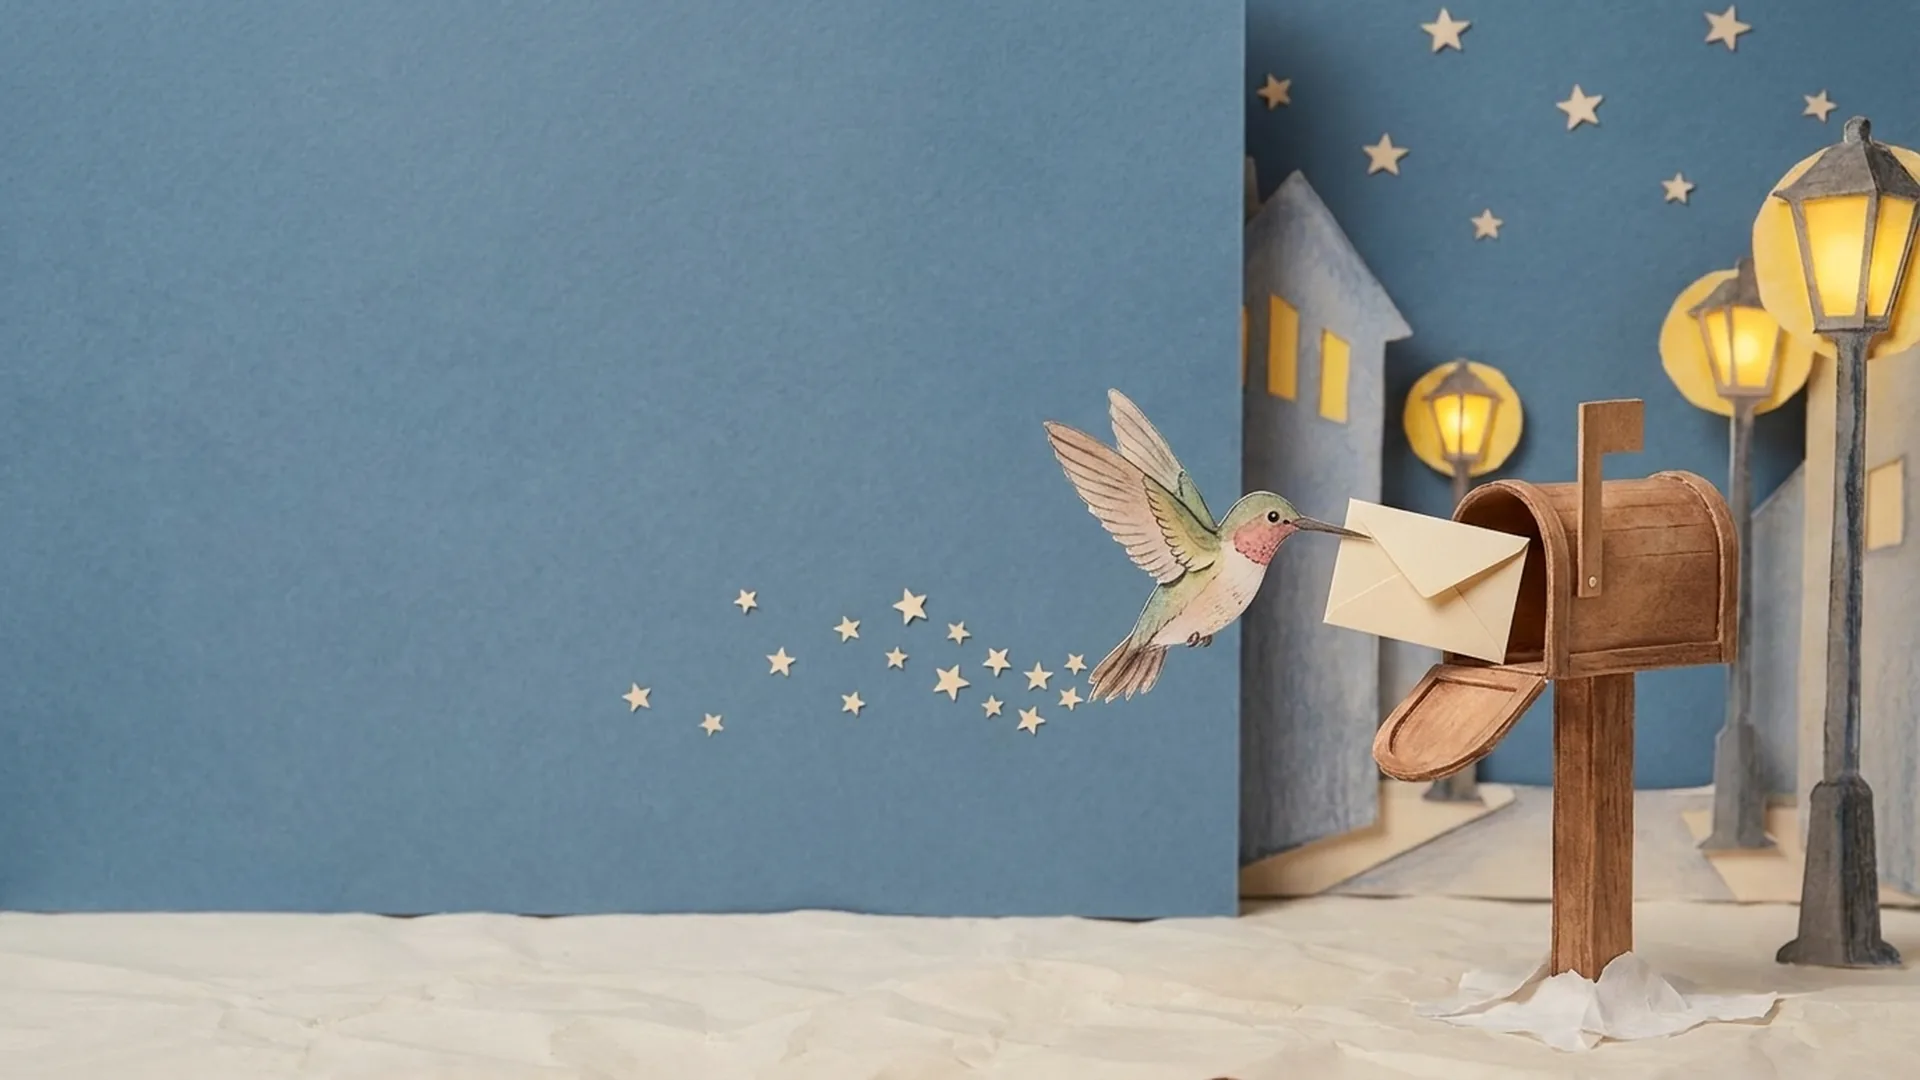
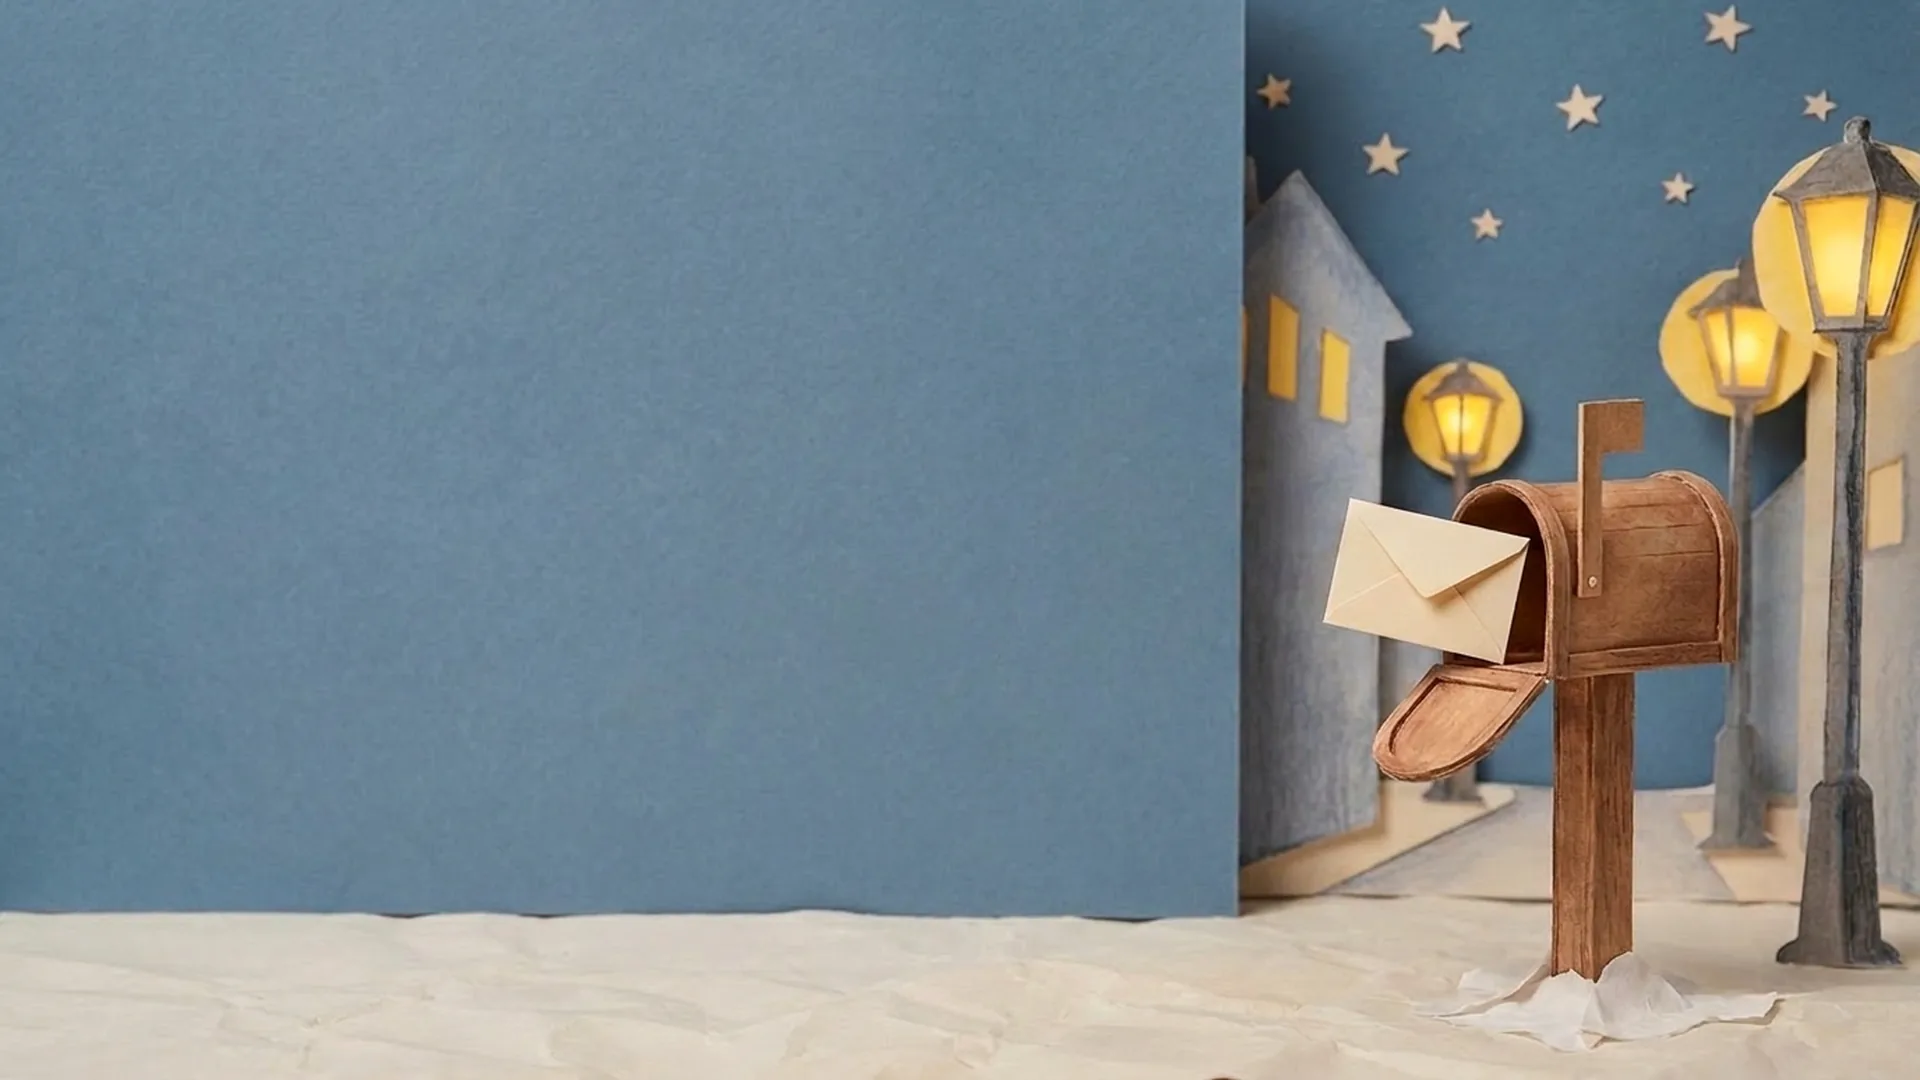
Mailing list scene: use the site's paper hummingbird instead of the generated one
The generated bird and its star trail were removed from the plate (Meshy
image-to-image edit); Jack's A1 paper bird is layered at the letter on
desktop and phone, and drifts in as the scene settles.

Claude-Session: https://claude.ai/code/session_01RtvS5V4MTS71N2RPp1urB8

diff --git a/index.html b/index.html
@@ -95,6 +95,7 @@
     <section class="scene" id="s-list" data-origin="70% 60%" aria-label="Mailing list">
       <div class="cam"><div class="plate">
         <img class="bg" src="assets/venue/desktop/A6-bg.webp" alt="A paper hummingbird posting a letter into a mailbox on a snowy night street" loading="lazy" width="1920" height="1080">
+        <img class="layer fg" data-l="A6-fg" src="assets/venue/desktop/A1-fg.webp" alt="">
       </div></div>
       <div class="signup rv"><form class="mc" data-mc novalidate><h2 class="h1">Stay in the loop</h2><p class="mc-lede">New songs, videos and show dates, now and then. No spam.</p><div class="mc-row"><label class="sr" for="mc-email-d">Email</label><input id="mc-email-d" type="email" name="EMAIL" placeholder="you@email.com" autocomplete="email" required><button type="submit">Sign me up</button></div><p class="mc-msg" role="status" aria-live="polite"></p></form></div>
       <div class="foot"><div class="socials"><a href="https://open.spotify.com/artist/2lmk0RtmkwgqdylSRGUCuy" target="_blank" rel="noopener" aria-label="Spotify"><svg viewBox="0 0 24 24" width="16" height="16" aria-hidden="true"><path d="M12 0C5.4 0 0 5.4 0 12s5.4 12 12 12 12-5.4 12-12S18.66 0 12 0zm5.521 17.34c-.24.359-.66.48-1.021.24-2.82-1.74-6.36-2.101-10.561-1.141-.418.122-.779-.179-.899-.539-.12-.421.18-.78.54-.9 4.56-1.021 8.52-.6 11.64 1.32.42.18.479.659.301 1.02zm1.44-3.3c-.301.42-.841.6-1.262.3-3.239-1.98-8.159-2.58-11.939-1.38-.479.12-1.02-.12-1.14-.6-.12-.48.12-1.021.6-1.141C9.6 9.9 15 10.561 18.72 12.84c.361.181.54.78.241 1.2zm.12-3.36C15.24 8.4 8.82 8.16 5.16 9.301c-.6.179-1.2-.181-1.38-.721-.18-.601.18-1.2.72-1.381 4.26-1.26 11.28-1.02 15.721 1.621.539.3.719 1.02.419 1.56-.299.421-1.02.599-1.559.3z"/></svg></a><a href="https://music.apple.com/il/artist/knaan-shabtay/950357713" target="_blank" rel="noopener" aria-label="Apple Music"><svg viewBox="0 0 24 24" width="16" height="16" aria-hidden="true"><path d="M23.994 6.124a9.23 9.23 0 00-.24-2.19c-.317-1.31-1.062-2.31-2.18-3.043a5.022 5.022 0 00-1.877-.726 10.496 10.496 0 00-1.564-.15c-.04-.003-.083-.01-.124-.013H5.986c-.152.01-.303.017-.455.026-.747.043-1.49.123-2.193.4-1.336.53-2.3 1.452-2.865 2.78-.192.448-.292.925-.363 1.408-.056.392-.088.785-.1 1.18 0 .032-.007.062-.01.093v12.223c.01.14.017.283.027.424.05.815.154 1.624.497 2.373.65 1.42 1.738 2.353 3.234 2.801.42.127.856.187 1.293.228.555.053 1.11.06 1.667.06h11.03a12.5 12.5 0 001.57-.1c.822-.106 1.596-.35 2.295-.81a5.046 5.046 0 001.88-2.207c.186-.42.293-.87.37-1.324.113-.675.138-1.358.137-2.04-.002-3.8 0-7.595-.003-11.393zm-6.423 3.99v5.712c0 .417-.058.827-.244 1.206-.29.59-.76.962-1.388 1.14-.35.1-.706.157-1.07.173-.95.045-1.773-.6-1.943-1.536a1.88 1.88 0 011.038-2.022c.323-.16.67-.25 1.018-.324.378-.082.758-.153 1.134-.24.274-.063.457-.23.51-.516a.904.904 0 00.02-.193c0-1.815 0-3.63-.002-5.443a.725.725 0 00-.026-.185c-.04-.15-.15-.243-.304-.234-.16.01-.318.035-.475.066-.76.15-1.52.303-2.28.456l-2.325.47-1.374.278c-.016.003-.032.01-.048.013-.277.077-.377.203-.39.49-.002.042 0 .086 0 .13-.002 2.602 0 5.204-.003 7.805 0 .42-.047.836-.215 1.227-.278.64-.77 1.04-1.434 1.233-.35.1-.71.16-1.075.172-.96.036-1.755-.6-1.92-1.544-.14-.812.23-1.685 1.154-2.075.357-.15.73-.232 1.108-.31.287-.06.575-.116.86-.177.383-.083.583-.323.6-.714v-.15c0-2.96 0-5.922.002-8.882 0-.123.013-.25.042-.37.07-.285.273-.448.546-.518.255-.066.515-.112.774-.165.733-.15 1.466-.296 2.2-.444l2.27-.46c.67-.134 1.34-.27 2.01-.403.22-.043.442-.088.663-.106.31-.025.523.17.554.482.008.073.012.148.012.223.002 1.91.002 3.822 0 5.732z"/></svg></a><a href="https://www.youtube.com/@KnaanShabtay" target="_blank" rel="noopener" aria-label="YouTube"><svg viewBox="0 0 24 24" width="16" height="16" aria-hidden="true"><path d="M23.498 6.186a3.016 3.016 0 0 0-2.122-2.136C19.505 3.545 12 3.545 12 3.545s-7.505 0-9.377.505A3.017 3.017 0 0 0 .502 6.186C0 8.07 0 12 0 12s0 3.93.502 5.814a3.016 3.016 0 0 0 2.122 2.136c1.871.505 9.376.505 9.376.505s7.505 0 9.377-.505a3.015 3.015 0 0 0 2.122-2.136C24 15.93 24 12 24 12s0-3.93-.502-5.814zM9.545 15.568V8.432L15.818 12l-6.273 3.568z"/></svg></a><a href="https://www.instagram.com/knaanshabtay/" target="_blank" rel="noopener" aria-label="Instagram"><svg viewBox="0 0 24 24" width="16" height="16" aria-hidden="true"><path d="M7.0301.084c-1.2768.0602-2.1487.264-2.911.5634-.7888.3075-1.4575.72-2.1228 1.3877-.6652.6677-1.075 1.3368-1.3802 2.127-.2954.7638-.4956 1.6365-.552 2.914-.0564 1.2775-.0689 1.6882-.0626 4.947.0062 3.2586.0206 3.6671.0825 4.9473.061 1.2765.264 2.1482.5635 2.9107.308.7889.72 1.4573 1.388 2.1228.6679.6655 1.3365 1.0743 2.1285 1.38.7632.295 1.6361.4961 2.9134.552 1.2773.056 1.6884.069 4.9462.0627 3.2578-.0062 3.668-.0207 4.9478-.0814 1.28-.0607 2.147-.2652 2.9098-.5633.7889-.3086 1.4578-.72 2.1228-1.3881.665-.6682 1.0745-1.3378 1.3795-2.1284.2957-.7632.4966-1.636.552-2.9124.056-1.2809.0692-1.6898.063-4.948-.0063-3.2583-.021-3.6668-.0817-4.9465-.0607-1.2797-.264-2.1487-.5633-2.9117-.3084-.7889-.72-1.4568-1.3876-2.1228C21.2982 1.33 20.628.9208 19.8378.6165 19.074.321 18.2017.1197 16.9244.0645 15.6471.0093 15.236-.005 11.977.0014 8.718.0076 8.31.0215 7.0301.0839m.1402 21.6932c-1.17-.0509-1.8053-.2453-2.2287-.408-.5606-.216-.96-.4771-1.3819-.895-.422-.4178-.6811-.8186-.9-1.378-.1644-.4234-.3624-1.058-.4171-2.228-.0595-1.2645-.072-1.6442-.079-4.848-.007-3.2037.0053-3.583.0607-4.848.05-1.169.2456-1.805.408-2.2282.216-.5613.4762-.96.895-1.3816.4188-.4217.8184-.6814 1.3783-.9003.423-.1651 1.0575-.3614 2.227-.4171 1.2655-.06 1.6447-.072 4.848-.079 3.2033-.007 3.5835.005 4.8495.0608 1.169.0508 1.8053.2445 2.228.408.5608.216.96.4754 1.3816.895.4217.4194.6816.8176.9005 1.3787.1653.4217.3617 1.056.4169 2.2263.0602 1.2655.0739 1.645.0796 4.848.0058 3.203-.0055 3.5834-.061 4.848-.051 1.17-.245 1.8055-.408 2.2294-.216.5604-.4763.96-.8954 1.3814-.419.4215-.8181.6811-1.3783.9-.4224.1649-1.0577.3617-2.2262.4174-1.2656.0595-1.6448.072-4.8493.079-3.2045.007-3.5825-.006-4.848-.0608M16.953 5.5864A1.44 1.44 0 1 0 18.39 4.144a1.44 1.44 0 0 0-1.437 1.4424M5.8385 12.012c.0067 3.4032 2.7706 6.1557 6.173 6.1493 3.4026-.0065 6.157-2.7701 6.1506-6.1733-.0065-3.4032-2.771-6.1565-6.174-6.1498-3.403.0067-6.156 2.771-6.1496 6.1738M8 12.0077a4 4 0 1 1 4.008 3.9921A3.9996 3.9996 0 0 1 8 12.0077"/></svg></a><a href="https://www.tiktok.com/@knaanshabtay" target="_blank" rel="noopener" aria-label="TikTok"><svg viewBox="0 0 24 24" width="16" height="16" aria-hidden="true"><path d="M12.525.02c1.31-.02 2.61-.01 3.91-.02.08 1.53.63 3.09 1.75 4.17 1.12 1.11 2.7 1.62 4.24 1.79v4.03c-1.44-.05-2.89-.35-4.2-.97-.57-.26-1.1-.59-1.62-.93-.01 2.92.01 5.84-.02 8.75-.08 1.4-.54 2.79-1.35 3.94-1.31 1.92-3.58 3.17-5.91 3.21-1.43.08-2.86-.31-4.08-1.03-2.02-1.19-3.44-3.37-3.65-5.71-.02-.5-.03-1-.01-1.49.18-1.9 1.12-3.72 2.58-4.96 1.66-1.44 3.98-2.13 6.15-1.72.02 1.48-.04 2.96-.04 4.44-.99-.32-2.15-.23-3.02.37-.63.41-1.11 1.04-1.36 1.75-.21.51-.15 1.07-.14 1.61.24 1.64 1.82 3.02 3.5 2.87 1.12-.01 2.19-.66 2.77-1.61.19-.33.4-.67.41-1.06.1-1.79.06-3.57.07-5.36.01-4.03-.01-8.05.02-12.07z"/></svg></a><a href="https://www.facebook.com/knaanshabtaymusic" target="_blank" rel="noopener" aria-label="Facebook"><svg viewBox="0 0 24 24" width="16" height="16" aria-hidden="true"><path d="M9.101 23.691v-7.98H6.627v-3.667h2.474v-1.58c0-4.085 1.848-5.978 5.858-5.978.401 0 .955.042 1.468.103a8.68 8.68 0 0 1 1.141.195v3.325a8.623 8.623 0 0 0-.653-.036 26.805 26.805 0 0 0-.733-.009c-.707 0-1.259.096-1.675.309a1.686 1.686 0 0 0-.679.622c-.258.42-.374.995-.374 1.752v1.297h3.919l-.386 2.103-.287 1.564h-3.246v8.245C19.396 23.238 24 18.179 24 12.044c0-6.627-5.373-12-12-12s-12 5.373-12 12c0 5.628 3.874 10.35 9.101 11.647Z"/></svg></a></div><p class="copy">© 2026 Knaan Shabtay. All rights reserved.</p></div>
@@ -127,7 +128,7 @@
       <a class="btn" href="mailto:knaanshabtaymusic@gmail.com">Send email →</a></div>
   </section>
   <section class="mob msec" id="list" aria-label="Mailing list">
-    <div class="mart"><img src="assets/venue/mobile/m-A6-plate.webp" alt="A paper hummingbird posting a letter into a mailbox on a snowy night street" loading="lazy" width="780" height="725"></div>
+    <div class="mart"><img src="assets/venue/mobile/m-A6-plate.webp" alt="A paper hummingbird posting a letter into a mailbox on a snowy night street" loading="lazy" width="780" height="725"><img class="mfg" data-l="m-A6-fg" src="assets/venue/mobile/m-A1-fg.webp" alt=""></div>
     <div class="mcon reveal"><form class="mc" data-mc novalidate><h2 class="h1">Stay in the loop</h2><p class="mc-lede">New songs, videos and show dates, now and then. No spam.</p><div class="mc-row"><label class="sr" for="mc-email-m">Email</label><input id="mc-email-m" type="email" name="EMAIL" placeholder="you@email.com" autocomplete="email" required><button type="submit">Sign me up</button></div><p class="mc-msg" role="status" aria-live="polite"></p></form><div class="socials mfoot"><a href="https://open.spotify.com/artist/2lmk0RtmkwgqdylSRGUCuy" target="_blank" rel="noopener" aria-label="Spotify"><svg viewBox="0 0 24 24" width="16" height="16" aria-hidden="true"><path d="M12 0C5.4 0 0 5.4 0 12s5.4 12 12 12 12-5.4 12-12S18.66 0 12 0zm5.521 17.34c-.24.359-.66.48-1.021.24-2.82-1.74-6.36-2.101-10.561-1.141-.418.122-.779-.179-.899-.539-.12-.421.18-.78.54-.9 4.56-1.021 8.52-.6 11.64 1.32.42.18.479.659.301 1.02zm1.44-3.3c-.301.42-.841.6-1.262.3-3.239-1.98-8.159-2.58-11.939-1.38-.479.12-1.02-.12-1.14-.6-.12-.48.12-1.021.6-1.141C9.6 9.9 15 10.561 18.72 12.84c.361.181.54.78.241 1.2zm.12-3.36C15.24 8.4 8.82 8.16 5.16 9.301c-.6.179-1.2-.181-1.38-.721-.18-.601.18-1.2.72-1.381 4.26-1.26 11.28-1.02 15.721 1.621.539.3.719 1.02.419 1.56-.299.421-1.02.599-1.559.3z"/></svg></a><a href="https://music.apple.com/il/artist/knaan-shabtay/950357713" target="_blank" rel="noopener" aria-label="Apple Music"><svg viewBox="0 0 24 24" width="16" height="16" aria-hidden="true"><path d="M23.994 6.124a9.23 9.23 0 00-.24-2.19c-.317-1.31-1.062-2.31-2.18-3.043a5.022 5.022 0 00-1.877-.726 10.496 10.496 0 00-1.564-.15c-.04-.003-.083-.01-.124-.013H5.986c-.152.01-.303.017-.455.026-.747.043-1.49.123-2.193.4-1.336.53-2.3 1.452-2.865 2.78-.192.448-.292.925-.363 1.408-.056.392-.088.785-.1 1.18 0 .032-.007.062-.01.093v12.223c.01.14.017.283.027.424.05.815.154 1.624.497 2.373.65 1.42 1.738 2.353 3.234 2.801.42.127.856.187 1.293.228.555.053 1.11.06 1.667.06h11.03a12.5 12.5 0 001.57-.1c.822-.106 1.596-.35 2.295-.81a5.046 5.046 0 001.88-2.207c.186-.42.293-.87.37-1.324.113-.675.138-1.358.137-2.04-.002-3.8 0-7.595-.003-11.393zm-6.423 3.99v5.712c0 .417-.058.827-.244 1.206-.29.59-.76.962-1.388 1.14-.35.1-.706.157-1.07.173-.95.045-1.773-.6-1.943-1.536a1.88 1.88 0 011.038-2.022c.323-.16.67-.25 1.018-.324.378-.082.758-.153 1.134-.24.274-.063.457-.23.51-.516a.904.904 0 00.02-.193c0-1.815 0-3.63-.002-5.443a.725.725 0 00-.026-.185c-.04-.15-.15-.243-.304-.234-.16.01-.318.035-.475.066-.76.15-1.52.303-2.28.456l-2.325.47-1.374.278c-.016.003-.032.01-.048.013-.277.077-.377.203-.39.49-.002.042 0 .086 0 .13-.002 2.602 0 5.204-.003 7.805 0 .42-.047.836-.215 1.227-.278.64-.77 1.04-1.434 1.233-.35.1-.71.16-1.075.172-.96.036-1.755-.6-1.92-1.544-.14-.812.23-1.685 1.154-2.075.357-.15.73-.232 1.108-.31.287-.06.575-.116.86-.177.383-.083.583-.323.6-.714v-.15c0-2.96 0-5.922.002-8.882 0-.123.013-.25.042-.37.07-.285.273-.448.546-.518.255-.066.515-.112.774-.165.733-.15 1.466-.296 2.2-.444l2.27-.46c.67-.134 1.34-.27 2.01-.403.22-.043.442-.088.663-.106.31-.025.523.17.554.482.008.073.012.148.012.223.002 1.91.002 3.822 0 5.732z"/></svg></a><a href="https://www.youtube.com/@KnaanShabtay" target="_blank" rel="noopener" aria-label="YouTube"><svg viewBox="0 0 24 24" width="16" height="16" aria-hidden="true"><path d="M23.498 6.186a3.016 3.016 0 0 0-2.122-2.136C19.505 3.545 12 3.545 12 3.545s-7.505 0-9.377.505A3.017 3.017 0 0 0 .502 6.186C0 8.07 0 12 0 12s0 3.93.502 5.814a3.016 3.016 0 0 0 2.122 2.136c1.871.505 9.376.505 9.376.505s7.505 0 9.377-.505a3.015 3.015 0 0 0 2.122-2.136C24 15.93 24 12 24 12s0-3.93-.502-5.814zM9.545 15.568V8.432L15.818 12l-6.273 3.568z"/></svg></a><a href="https://www.instagram.com/knaanshabtay/" target="_blank" rel="noopener" aria-label="Instagram"><svg viewBox="0 0 24 24" width="16" height="16" aria-hidden="true"><path d="M7.0301.084c-1.2768.0602-2.1487.264-2.911.5634-.7888.3075-1.4575.72-2.1228 1.3877-.6652.6677-1.075 1.3368-1.3802 2.127-.2954.7638-.4956 1.6365-.552 2.914-.0564 1.2775-.0689 1.6882-.0626 4.947.0062 3.2586.0206 3.6671.0825 4.9473.061 1.2765.264 2.1482.5635 2.9107.308.7889.72 1.4573 1.388 2.1228.6679.6655 1.3365 1.0743 2.1285 1.38.7632.295 1.6361.4961 2.9134.552 1.2773.056 1.6884.069 4.9462.0627 3.2578-.0062 3.668-.0207 4.9478-.0814 1.28-.0607 2.147-.2652 2.9098-.5633.7889-.3086 1.4578-.72 2.1228-1.3881.665-.6682 1.0745-1.3378 1.3795-2.1284.2957-.7632.4966-1.636.552-2.9124.056-1.2809.0692-1.6898.063-4.948-.0063-3.2583-.021-3.6668-.0817-4.9465-.0607-1.2797-.264-2.1487-.5633-2.9117-.3084-.7889-.72-1.4568-1.3876-2.1228C21.2982 1.33 20.628.9208 19.8378.6165 19.074.321 18.2017.1197 16.9244.0645 15.6471.0093 15.236-.005 11.977.0014 8.718.0076 8.31.0215 7.0301.0839m.1402 21.6932c-1.17-.0509-1.8053-.2453-2.2287-.408-.5606-.216-.96-.4771-1.3819-.895-.422-.4178-.6811-.8186-.9-1.378-.1644-.4234-.3624-1.058-.4171-2.228-.0595-1.2645-.072-1.6442-.079-4.848-.007-3.2037.0053-3.583.0607-4.848.05-1.169.2456-1.805.408-2.2282.216-.5613.4762-.96.895-1.3816.4188-.4217.8184-.6814 1.3783-.9003.423-.1651 1.0575-.3614 2.227-.4171 1.2655-.06 1.6447-.072 4.848-.079 3.2033-.007 3.5835.005 4.8495.0608 1.169.0508 1.8053.2445 2.228.408.5608.216.96.4754 1.3816.895.4217.4194.6816.8176.9005 1.3787.1653.4217.3617 1.056.4169 2.2263.0602 1.2655.0739 1.645.0796 4.848.0058 3.203-.0055 3.5834-.061 4.848-.051 1.17-.245 1.8055-.408 2.2294-.216.5604-.4763.96-.8954 1.3814-.419.4215-.8181.6811-1.3783.9-.4224.1649-1.0577.3617-2.2262.4174-1.2656.0595-1.6448.072-4.8493.079-3.2045.007-3.5825-.006-4.848-.0608M16.953 5.5864A1.44 1.44 0 1 0 18.39 4.144a1.44 1.44 0 0 0-1.437 1.4424M5.8385 12.012c.0067 3.4032 2.7706 6.1557 6.173 6.1493 3.4026-.0065 6.157-2.7701 6.1506-6.1733-.0065-3.4032-2.771-6.1565-6.174-6.1498-3.403.0067-6.156 2.771-6.1496 6.1738M8 12.0077a4 4 0 1 1 4.008 3.9921A3.9996 3.9996 0 0 1 8 12.0077"/></svg></a><a href="https://www.tiktok.com/@knaanshabtay" target="_blank" rel="noopener" aria-label="TikTok"><svg viewBox="0 0 24 24" width="16" height="16" aria-hidden="true"><path d="M12.525.02c1.31-.02 2.61-.01 3.91-.02.08 1.53.63 3.09 1.75 4.17 1.12 1.11 2.7 1.62 4.24 1.79v4.03c-1.44-.05-2.89-.35-4.2-.97-.57-.26-1.1-.59-1.62-.93-.01 2.92.01 5.84-.02 8.75-.08 1.4-.54 2.79-1.35 3.94-1.31 1.92-3.58 3.17-5.91 3.21-1.43.08-2.86-.31-4.08-1.03-2.02-1.19-3.44-3.37-3.65-5.71-.02-.5-.03-1-.01-1.49.18-1.9 1.12-3.72 2.58-4.96 1.66-1.44 3.98-2.13 6.15-1.72.02 1.48-.04 2.96-.04 4.44-.99-.32-2.15-.23-3.02.37-.63.41-1.11 1.04-1.36 1.75-.21.51-.15 1.07-.14 1.61.24 1.64 1.82 3.02 3.5 2.87 1.12-.01 2.19-.66 2.77-1.61.19-.33.4-.67.41-1.06.1-1.79.06-3.57.07-5.36.01-4.03-.01-8.05.02-12.07z"/></svg></a><a href="https://www.facebook.com/knaanshabtaymusic" target="_blank" rel="noopener" aria-label="Facebook"><svg viewBox="0 0 24 24" width="16" height="16" aria-hidden="true"><path d="M9.101 23.691v-7.98H6.627v-3.667h2.474v-1.58c0-4.085 1.848-5.978 5.858-5.978.401 0 .955.042 1.468.103a8.68 8.68 0 0 1 1.141.195v3.325a8.623 8.623 0 0 0-.653-.036 26.805 26.805 0 0 0-.733-.009c-.707 0-1.259.096-1.675.309a1.686 1.686 0 0 0-.679.622c-.258.42-.374.995-.374 1.752v1.297h3.919l-.386 2.103-.287 1.564h-3.246v8.245C19.396 23.238 24 18.179 24 12.044c0-6.627-5.373-12-12-12s-12 5.373-12 12c0 5.628 3.874 10.35 9.101 11.647Z"/></svg></a></div><p class="copy">© 2026 Knaan Shabtay. All rights reserved.</p></div>
   </section>
 </main>
@@ -137,6 +138,6 @@
 
 <script src="https://cdnjs.cloudflare.com/ajax/libs/gsap/3.12.5/gsap.min.js"></script>
 <script src="https://cdnjs.cloudflare.com/ajax/libs/gsap/3.12.5/ScrollTrigger.min.js"></script>
-<script src="js/venue.js?v=20261008f"></script>
+<script src="js/venue.js?v=20261008g"></script>
 </body>
 </html>

diff --git a/js/venue.js b/js/venue.js
@@ -13,8 +13,8 @@
     'A1-fg': [1181, 338, 135, 156], 'A2-hero-still': [820, 107, 740, 579], 'A2-fg': [84, 635, 1245, 445],
     'A3-fg': [965, 118, 132, 147], 'A3-board': [600, 345, 490, 335],
     'A4-fg': [1111, 281, 603, 599], 'A4-ffh': [225, 330, 440, 290], 'A4-lit': [552, 440, 478, 320],
-    'A5-card': [752, 396, 356, 272], 'A5-flyer': [352, 268, 272, 382],
-    'm-A1-fg': [581, 180, 113, 130], 'm-A2-fg': [0, 480, 554, 280], 'm-A3-fg': [342, 41, 96, 104], 'm-A4-fg': [457, 161, 323, 360], 
+    'A5-card': [752, 396, 356, 272], 'A6-fg': [1184, 499, 170, 196], 'A5-flyer': [352, 268, 272, 382],
+    'm-A1-fg': [581, 180, 113, 130], 'm-A2-fg': [0, 480, 554, 280], 'm-A3-fg': [342, 41, 96, 104], 'm-A4-fg': [457, 161, 323, 360], 'm-A6-fg': [282, 338, 115, 133], 
   };
   document.querySelectorAll('[data-l]').forEach(el => {
     const b = L[el.dataset.l]; if (!b) return;
@@ -93,6 +93,7 @@
       .to(cam(s5), {scale: 1.55, x: '-20vw', y: '6vh', duration: 80, ease: 'power2.inOut'}, T(860))
       .to(s5, {autoAlpha: 0, duration: 30}, T(905))
       .fromTo(s6, {autoAlpha: 0}, {autoAlpha: 1, duration: 30, immediateRender: false}, T(900))
+      .fromTo('[data-l="A6-fg"]', {x: '-8vw', y: '-6vh', rotate: -8}, {x: 0, y: 0, rotate: 0, duration: 60, ease: 'power2.out', immediateRender: false}, T(910))
       .fromTo(cam(s6), {scale: 1.35, x: '8vw'}, {scale: 1.08, x: 0, duration: 70, ease: 'power2.out', immediateRender: false}, T(900))
     // S6: the camera eases back as the night ends
       .to(cam(s6), {scale: 1, duration: 40, ease: 'power2.inOut'}, T(1020));
